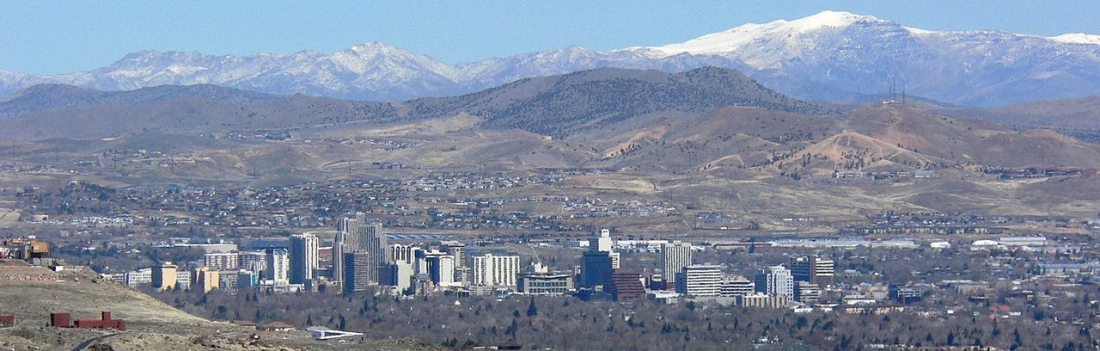
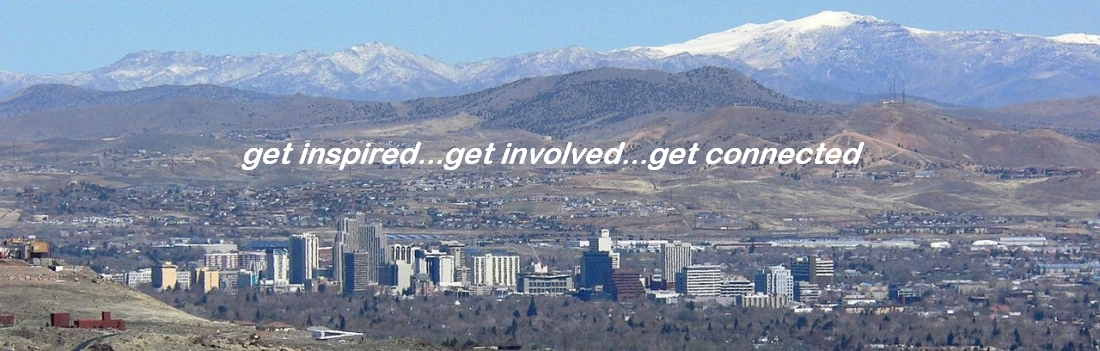
responsive images

Changed region(s): [[0.2164, 0.3989, 0.8036, 0.4843]]

diff --git a/assets/css/app.scss b/assets/css/app.scss
@@ -1,15 +1,10 @@
 @import "./jquery-ui.min.css";
 @import "~bootstrap/scss/bootstrap";
 
-.imageContainer {
-  position: relative;
-  text-align: center;
-}
+@media screen {
+    .imageContainer {
+        width: 100%;
+        height: auto;
+    }
 
-.overlay span{
-  position:absolute;
-  top:50%;
-  left:50%;
-  transform:translate(-50%,-50%);
-  color:#fff;
 }

diff --git a/src/Controller/RegistrationController.php b/src/Controller/RegistrationController.php
@@ -375,6 +375,8 @@ class RegistrationController extends AbstractController
             $mailer->appMailer($mailParams);
 
             $flashMessage .= '; please wait for nonprofit activation to login';
+        } elseif ('volunteer' === $actor) {
+            $user->setReceiveEmail(true);
         }
 
         $user->setConfirmationToken(null);
